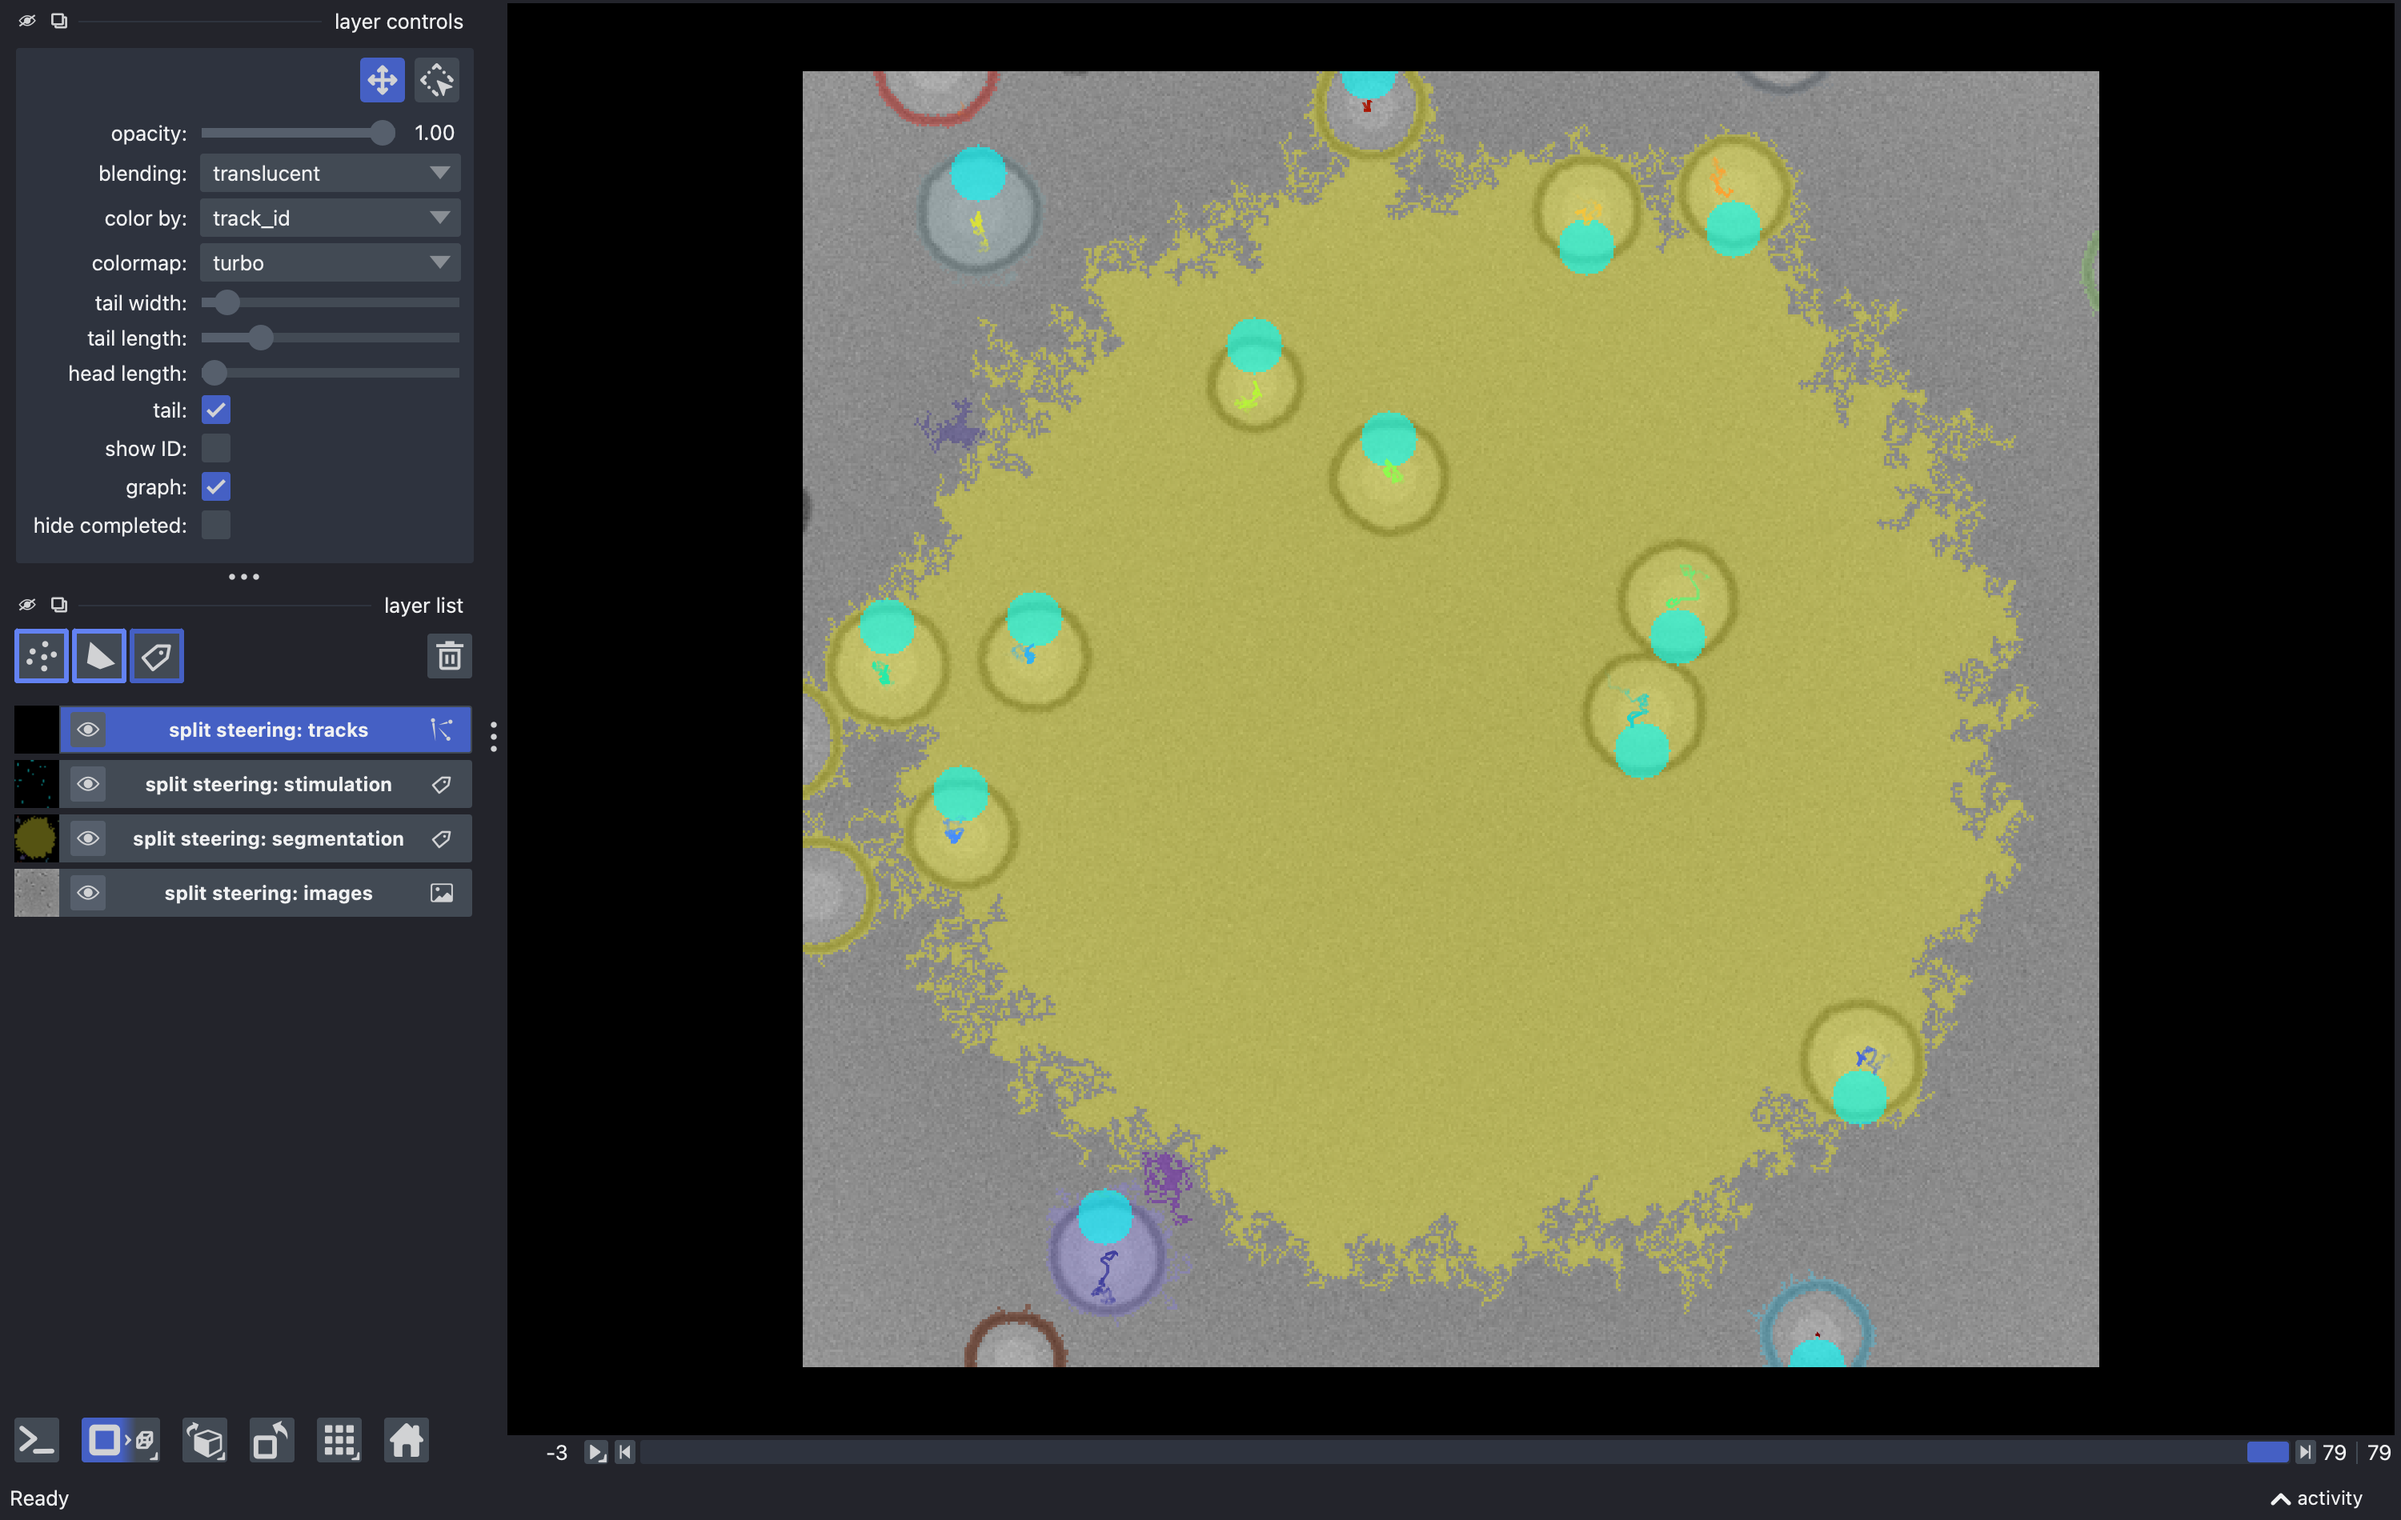
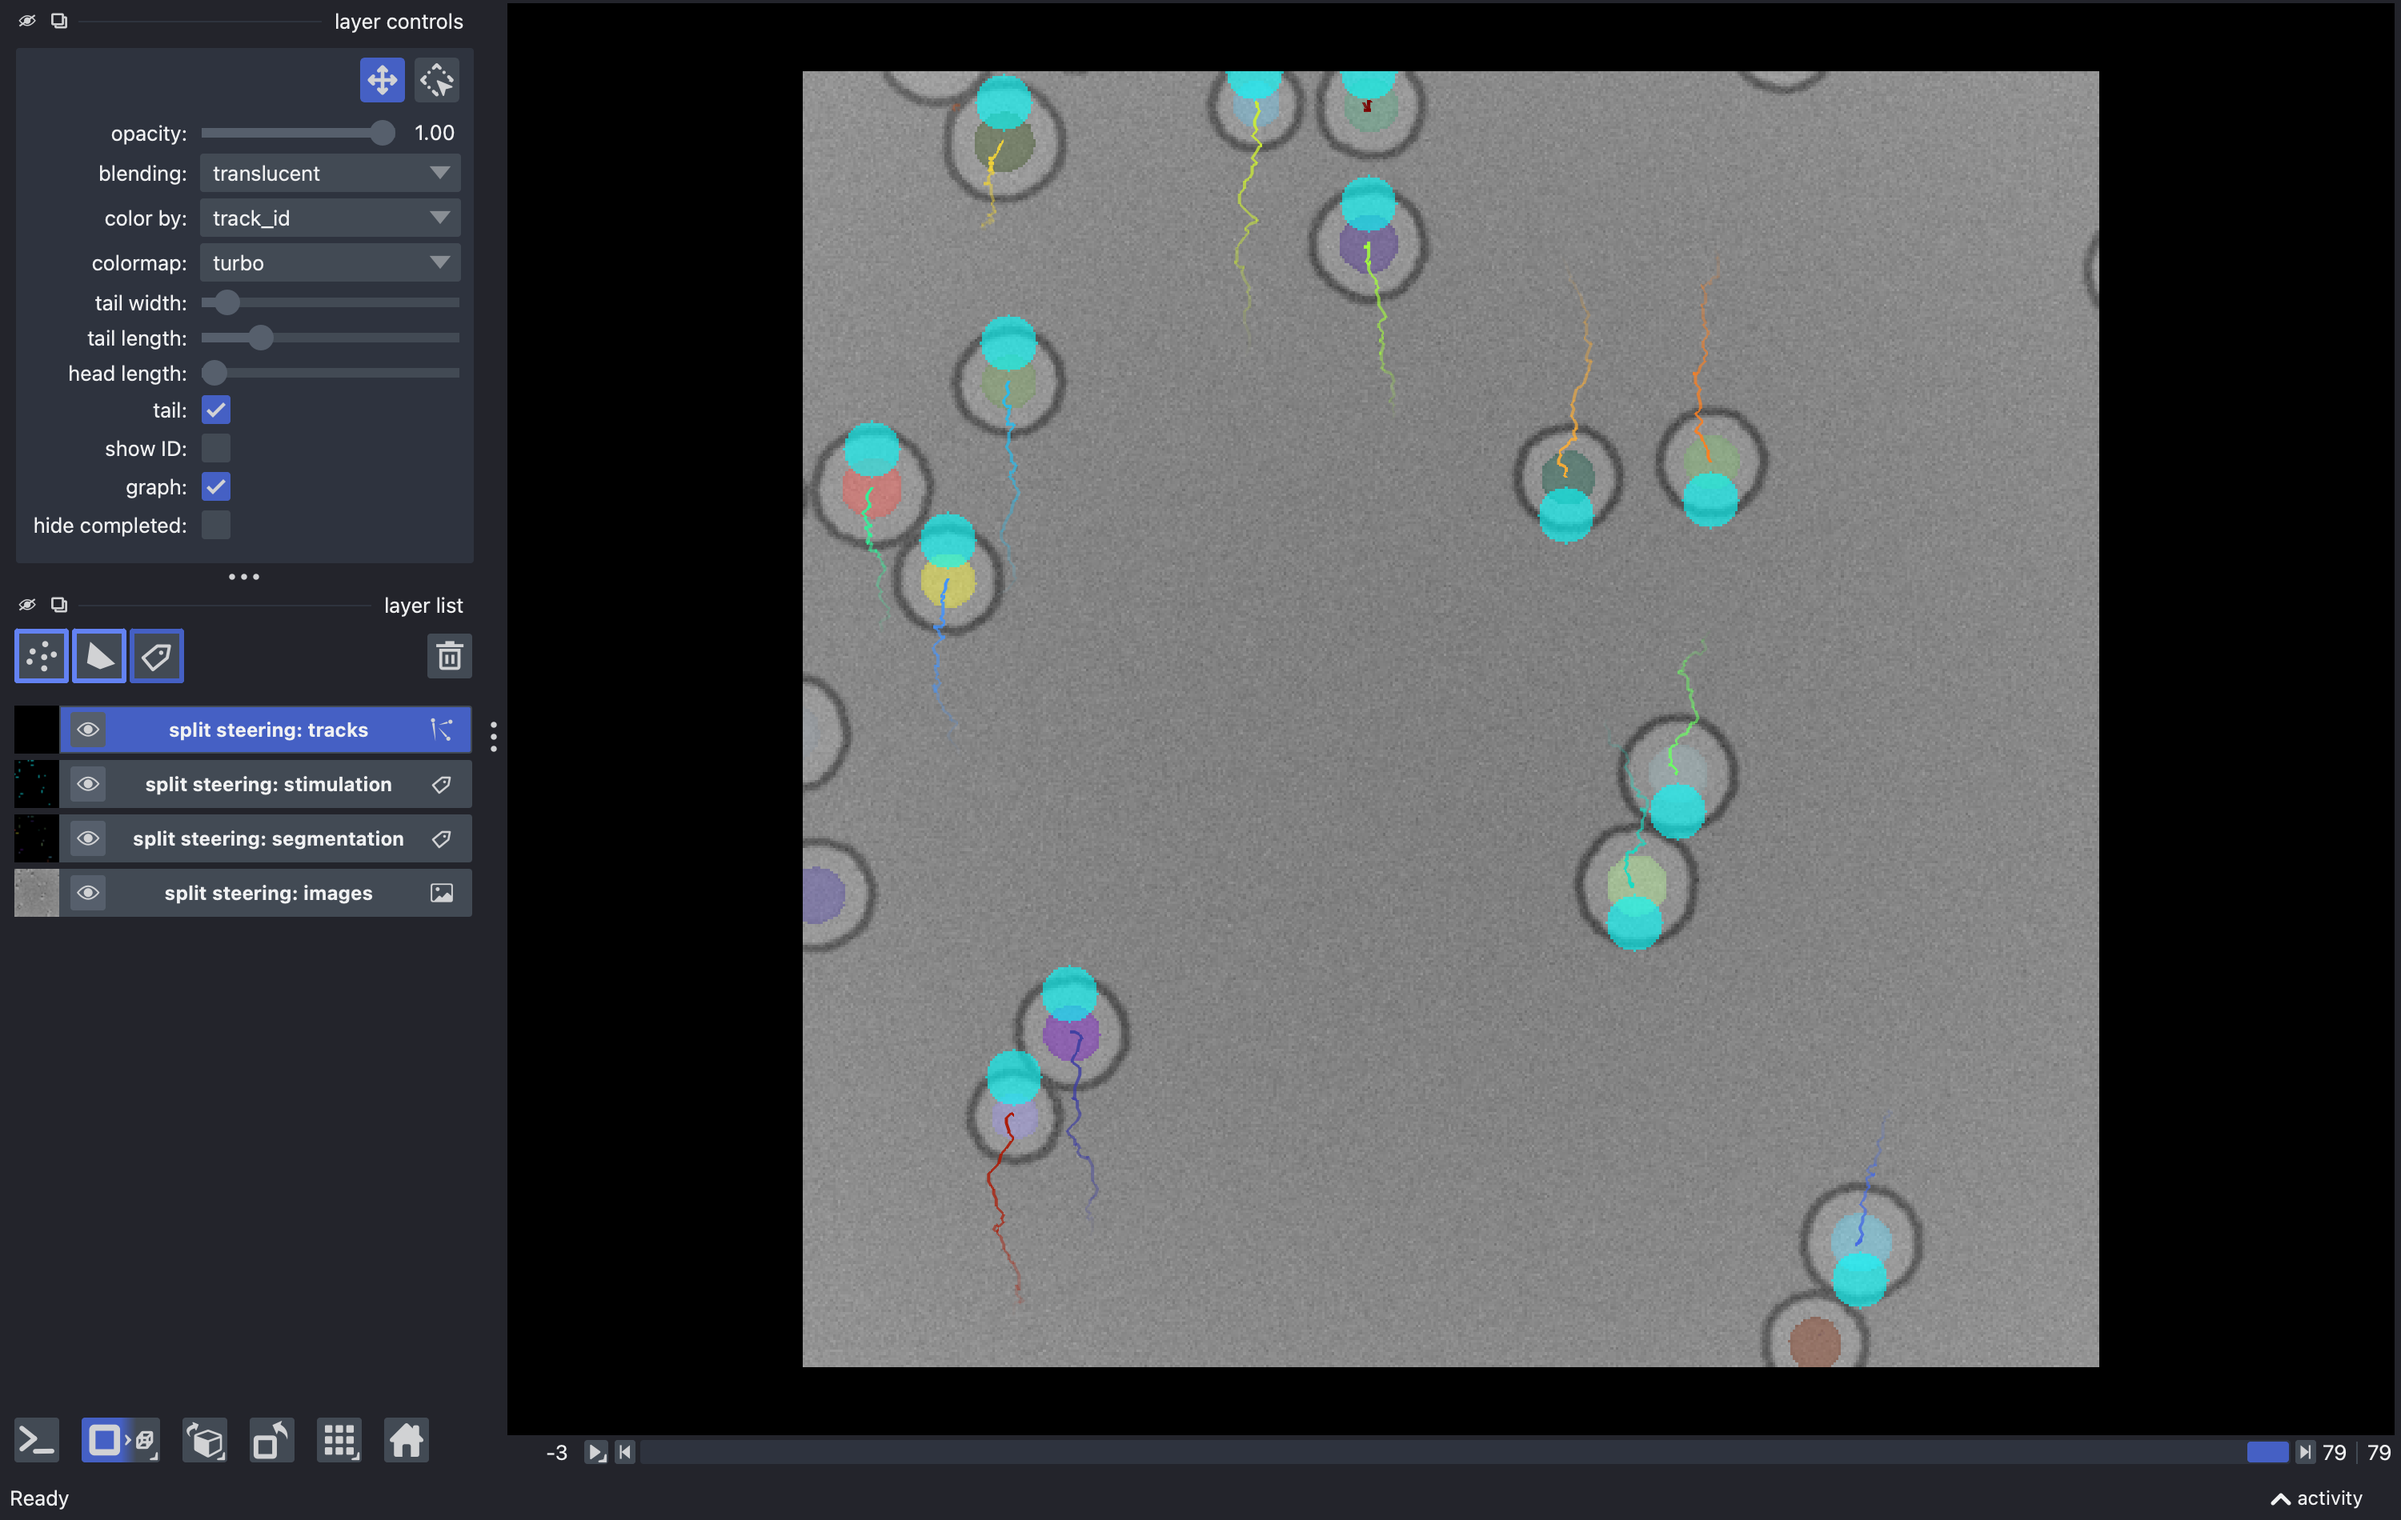
Fix results-explorer demo: segment nuclei channel, actually deliver stimulation
The screenshot loop thresholded the phase image (whose background is now
the bright well interior, so Otsu segmented the well) and never switched
to CyanStim, so the split-steering demo showed unstimulated cells.

Changed region(s): [[0.31, 0.0311, 0.837, 0.9005], [0.868, 0.1553, 0.899, 0.1863], [0.0, 0.5279, 0.031, 0.5589]]

diff --git a/scripts/make_screenshots.py b/scripts/make_screenshots.py
@@ -20,13 +20,18 @@ OUT = "docs/images"
 WINDOW = (1500, 950)
 
 
-def segment(img):
-    """Label mask from the phase image (for the segmentation layer)."""
-    _, b = cv2.threshold(img, 0, 255, cv2.THRESH_BINARY + cv2.THRESH_OTSU)
+def segment(nuclei_img):
+    """Label mask from the miRFP nuclei image (for the segmentation layer).
+
+    The phase image cannot be thresholded directly (its background is the
+    bright well interior), which is exactly why the taught pipeline
+    segments the nuclear marker channel."""
+    _, b = cv2.threshold(nuclei_img, 0, 255,
+                         cv2.THRESH_BINARY + cv2.THRESH_OTSU)
     cts, _ = cv2.findContours(b, cv2.RETR_EXTERNAL, cv2.CHAIN_APPROX_SIMPLE)
-    seg, lbl = np.zeros_like(img, np.int32), 1
+    seg, lbl = np.zeros_like(nuclei_img, np.int32), 1
     for c in cts:
-        if cv2.contourArea(c) < 100:
+        if cv2.contourArea(c) < 20:
             continue
         cv2.drawContours(seg, [c], -1, lbl, -1)
         lbl += 1
@@ -57,7 +62,8 @@ def shot_results():
     for _ in range(80):
         core.setConfig("Channel", "miRFP")      # robust detection channel
         core.snapImage()
-        cells = detect_nuclei(core.getImage())
+        nuc = core.getImage().copy()
+        cells = detect_nuclei(nuc)
         core.setConfig("Channel", "phase-contrast")
         core.snapImage()
         img = core.getImage()
@@ -66,11 +72,12 @@ def shot_results():
             dy = -15 if cx < 256 else 15
             cv2.circle(mask, (cx, int(np.clip(cy + dy, 0, 511))), 11, 255, -1)
         core.setSLMImage("SLM", mask)
+        core.setConfig("Channel", "CyanStim")   # gated delivery
         advance(sim, 1.0)
         imgs.append(img.copy())
         masks.append(mask)
         cents.append(cells)
-        segs.append(segment(img))
+        segs.append(segment(nuc))
 
     viewer = show_results(imgs, masks=masks, centroids=cents,
                           segmentations=segs, name="split steering")
